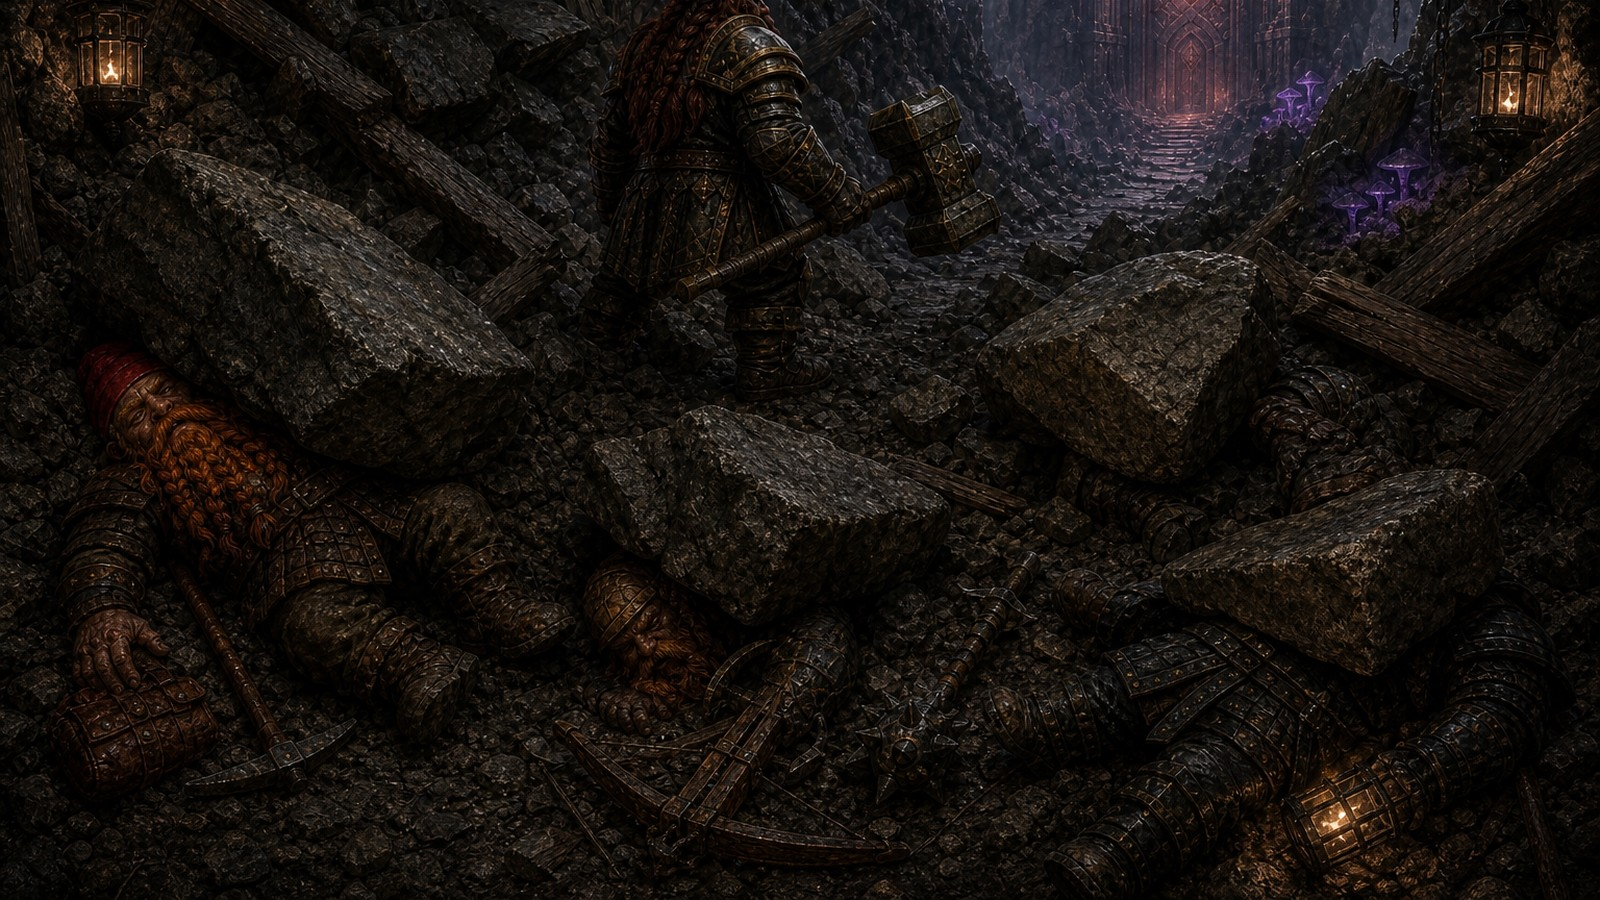
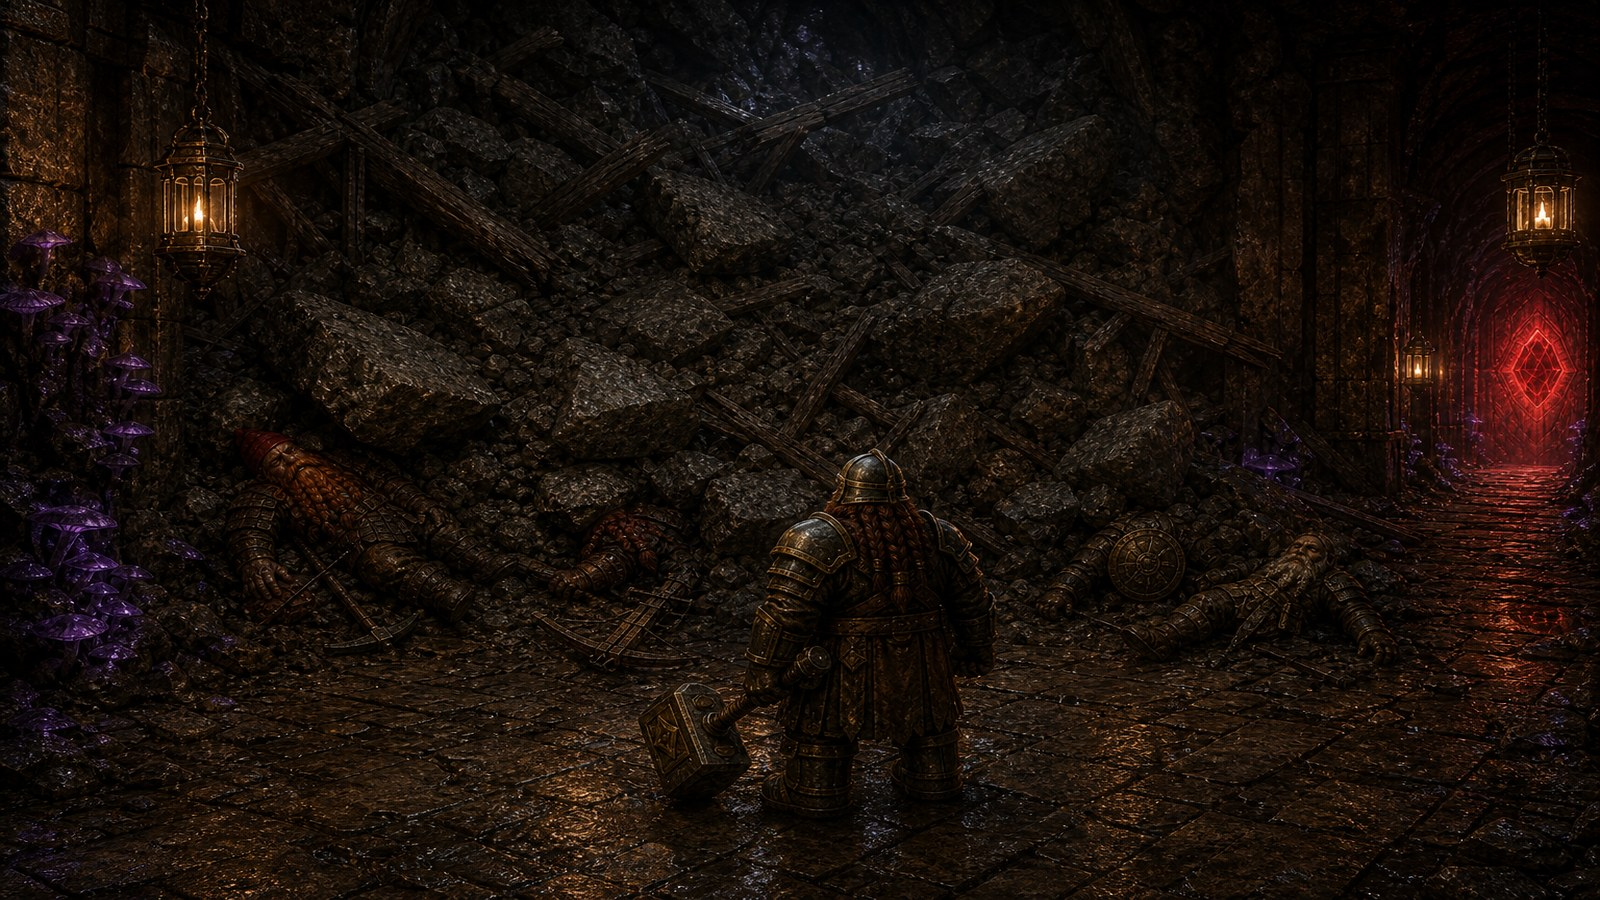
Restore the fallen kin and raise the Chapter I cave-in.
Save-load had turned crush spots into a boolean, so the dead dwarves
spawned off the map. They stand under a ceiling-high west collapse now,
timbers and columns sit on the walls, and the title shows Macar over his
brothers instead of a living party at the ruby door.

diff --git a/index.html b/index.html
@@ -10,8 +10,8 @@
 <link rel="preconnect" href="https://fonts.googleapis.com">
 <link rel="preconnect" href="https://fonts.gstatic.com" crossorigin>
 <link href="https://fonts.googleapis.com/css2?family=Cinzel:wght@600;700;800&display=swap" rel="stylesheet">
-<link rel="preload" as="image" href="assets/ui/title_splash.jpg?v=47">
-<link rel="preload" as="image" href="assets/ui/intro_cavein.jpg?v=47">
+<link rel="preload" as="image" href="assets/ui/title_splash.jpg?v=56">
+<link rel="preload" as="image" href="assets/ui/intro_cavein.jpg?v=56">
 <link rel="preload" as="audio" href="assets/music/SongOfTheForge.mp3?v=47" type="audio/mpeg">
 <style>
   *{margin:0;padding:0;box-sizing:border-box;-webkit-tap-highlight-color:transparent}
@@ -321,7 +321,7 @@ const FONT_TITLE='Cinzel,Palatino,"Palatino Linotype",Georgia,serif';
 
 /* ---------------------------- painted sprites (Baldur's Gate isometric) ---------------------------- */
 const SPR={};
-const ASSET_VER='55';
+const ASSET_VER='56';
 let SPLASH_STATE='loading';
 function assetUrl(src){
   const u=src+(src.indexOf('?')>=0?'&':'?')+'v='+ASSET_VER;
@@ -1288,8 +1288,8 @@ function propAnimImg(p){
 }
 function propSpriteH(p,z){
   const k=p.k;
-  if(k==='cavein') return 118*z;
-  if(k==='rubble') return 52*z*(p.s||1);
+  if(k==='cavein') return 132*z*(p.s||1);
+  if(k==='rubble') return (p.tall||p.backwall?120:52)*z*(p.s||1);
   if(k==='boulder') return (p.pin?48:56)*z*(p.s||1);
   if(k==='rubywall') return 108*z*(p.s||1);
   if(k==='rubydoor') return rubyDoorH();
@@ -2118,18 +2118,30 @@ function startRubbleSpr(seed, n){
 }
 function startBackWallRubble(){
   const out=[];
-  for(let i=0;i<16;i++){
-    const y=16.4+i*0.68+(h01(i,2,81)-0.5)*0.22;
-    const x=14.12+(h01(i,3,81)-0.5)*0.20;
-    const s=0.55+h01(i,5,81)*0.85;
-    const spr=startRubbleSpr(81,i);
-    out.push({x,y,k:/boulder/.test(spr)&&s>0.95?'boulder':'rubble',spr,s,seed:900+i,backwall:1});
+  // Ceiling stack against the sealed west wall — hides the black void.
+  for(let i=0;i<18;i++){
+    const y=15.55+i*0.76+(h01(i,2,81)-0.5)*0.16;
+    const x=14.06+(h01(i,3,81)-0.5)*0.10;
+    const s=0.92+h01(i,5,81)*0.38;
+    const spr=(i%3===0)?'cavein':startRubbleSpr(81,i);
+    out.push({x,y,k:spr==='cavein'?'cavein':'rubble',spr,s,seed:900+i,backwall:1,tall:1});
   }
-  for(let i=0;i<10;i++){
-    const y=16.8+i*0.95+(h01(i,6,81)-0.5)*0.28;
-    const x=14.55+(h01(i,8,81)-0.5)*0.24;
-    out.push({x,y,k:'rubble',spr:startRubbleSpr(83,i+2),s:0.28+h01(i,9,81)*0.42,seed:940+i,backwall:1});
+  for(let i=0;i<12;i++){
+    const y=16.15+i*1.02+(h01(i,6,81)-0.5)*0.20;
+    const x=14.48+(h01(i,8,81)-0.5)*0.14;
+    out.push({x,y,k:'rubble',spr:startRubbleSpr(83,i+2),s:0.78+h01(i,9,81)*0.42,seed:940+i,backwall:1,tall:1});
   }
+  // Tongue of spill into the paved entry toward the hall mouth.
+  const spills=[
+    [15.28,17.35,0.70],[15.48,18.55,0.62],[15.22,19.85,0.58],
+    [15.72,21.15,0.66],[16.35,21.85,0.48],[16.95,22.15,0.36],
+    [15.58,23.55,0.54],[15.38,24.85,0.62],[15.82,26.25,0.58],
+    [16.55,20.55,0.40],[17.25,21.55,0.32]
+  ];
+  spills.forEach((s,i)=>{
+    if(nearCrush(s[0],s[1],0.58)) return;
+    out.push({x:s[0],y:s[1],k:'rubble',spr:startRubbleSpr(91,i),s:s[2],seed:980+i,scatter:1,spill:1});
+  });
   return out;
 }
 function scatterStartRubble(L){
@@ -2138,7 +2150,7 @@ function scatterStartRubble(L){
   const clusters=[
     [14.55,17.15,6,0.88,1.05],[14.70,19.35,7,0.95,1.12],[14.50,21.55,5,0.78,0.92],
     [14.75,23.85,7,0.92,1.08],[14.55,26.15,5,0.80,0.90],
-    [16.05,18.40,3,0.55,0.52],[16.20,22.20,3,0.50,0.48],[16.00,25.20,3,0.52,0.46]
+    [15.85,18.55,2,0.42,0.46],[15.70,25.40,2,0.40,0.44]
   ];
   let n=0;
   clusters.forEach(c=>{
@@ -2148,7 +2160,7 @@ function scatterStartRubble(L){
       const rad=Math.pow(h01(n,5,seed),0.65)*c[3];
       const jx=c[0]+Math.cos(ang)*rad;
       const jy=c[1]+Math.sin(ang)*rad*0.78;
-      if(Math.hypot(jx-19.2, jy-21.5)<1.55) continue;
+      if(Math.hypot(jx-18.4, jy-21.8)<1.45) continue;
       if(nearCrush(jx,jy,0.62)) continue;
       const ti=jx|0, tj=jy|0;
       if(!L.grid[tj]||!isWalkTile(L.grid[tj][ti])) continue;
@@ -2169,7 +2181,7 @@ function makeChapter(n){
     L.w=60; L.h=48; const g=newGrid(L.w,L.h,1); L.grid=g;
     rect(g,14,14,18,16,0); rect(g,24,7,28,28,0);
     rect(g,48,16,5,12,3); rect(g,34,17,9,9,3);
-    L.spawn={x:20.5,y:22.0}; L.flags.broke=1;
+    L.spawn={x:18.4,y:21.8}; L.flags.broke=1;
     L.crush=CRUSH_SPOTS;
     L.secrets=[];
     addSecretDoor(L,{x:36.5,y:35.05,i:35,j:35,w:3,h:1,kind:'treasure',face:'n',
@@ -2188,9 +2200,10 @@ function makeChapter(n){
               {x:27,y:12,c:'#a06cff',r:4.2,f:0.9},{x:42,y:13,c:'#a06cff',r:4.4,f:0.9},
               {x:26,y:30,c:'#a06cff',r:4.0,f:0.85},{x:45,y:29,c:'#a06cff',r:4.6,f:0.95}];
     G.props=[{x:15.4,y:16.35,k:'lantern'},{x:18.2,y:27.15,k:'lantern'},{x:29,y:14,k:'lantern'},{x:29,y:28,k:'lantern'},
-      {x:43,y:14,k:'lantern'},{x:43,y:28,k:'lantern'},
-      {x:16.2,y:16.65,k:'timber'},{x:15.8,y:27.05,k:'timber'},
-      {x:26.5,y:12.5,k:'pillar'},{x:26.5,y:29.5,k:'pillar'},{x:44.5,y:12.5,k:'pillar'},{x:44.5,y:29.5,k:'pillar'},
+      {x:43,y:14,k:'lantern'},{x:43,y:28,k:'lantern'},{x:35.5,y:12.85,k:'lantern'},{x:35.5,y:29.15,k:'lantern'},
+      {x:14.62,y:17.05,k:'timber'},{x:14.55,y:26.85,k:'timber'},
+      {x:26.5,y:12.5,k:'pillar'},{x:35.5,y:12.5,k:'pillar'},{x:44.5,y:12.5,k:'pillar'},
+      {x:26.5,y:29.5,k:'pillar'},{x:35.5,y:29.5,k:'pillar'},{x:44.5,y:29.5,k:'pillar'},
       {x:35,y:12.8,k:'chain'},{x:38,y:30.6,k:'chain'},
       {x:36.5,y:7.28,k:'rubydoor'},{x:43.2,y:7.28,k:'dwarfface'},{x:36.5,y:21.5,k:'lift'},
       {x:27.4,y:18.2,k:'trap',trap:'trap_spikes'},{x:27.8,y:24.6,k:'trap',trap:'trap_pit'},
@@ -2578,8 +2591,7 @@ function dressDungeon(L){
   if(!L||!L.grid) return;
   G.props=G.props||[];
   const tables={
-    1:[['rubble',4],['timber',5],['barrel',2],['crate',2],['orepile',4],
-       ['pickpile',3],['sack',2],['lantern',2],['bones',2],['banner',1]],
+    1:[['rubble',5],['orepile',2],['bones',2],['sack',1],['banner',1]],
     2:[['web',4],['eggs',3],['stalagmite',2],['bones',3],
        ['crystal',2],['sack',2],['crate',1],['timber',2],['orepile',2]],
     3:[['bones',4],['urn',3],['banner',2],['crate',2],['cart',1],['idol',2],
@@ -2610,7 +2622,7 @@ function dressDungeon(L){
     if(!wall && h3(x,y,seed)<0.78) continue;
     floors.push({x:x+0.5,y:y+0.5,wall});
   }
-  const want=L.n===1?10:L.n===2?16:L.n===3?22:L.n===5?12:14;
+  const want=L.n===1?4:L.n===2?16:L.n===3?22:L.n===5?12:14;
   let placed=0, tries=0;
   while(placed<want && tries<floors.length*4){
     tries++;
@@ -2665,7 +2677,7 @@ function placePlantClusters(L){
     if(wall) floors.push({x:x+0.5,y:y+0.5});
   }
   if(!floors.length) return;
-  const nCl=L.n===2?5:L.n===3?5:L.n===1?3:3;
+  const nCl=L.n===2?5:L.n===3?5:L.n===1?2:3;
   const keep=[];
   G.props.forEach(p=>keep.push({x:p.x,y:p.y,r:1.05}));
   if(L.spawn) keep.push({x:L.spawn.x,y:L.spawn.y,r:2.2});
@@ -3054,7 +3066,7 @@ function startChapter(n){
     const hp=sheet.maxhp*ADD_SCALE;
     const atkCd=hero?1.05:r.role==='bolt'?1.7:r.role==='faith'?1.25:1.15;
     const raised=!!(G.ghostAllies&&G.ghostAllies[r.key]);
-    const crush=n===1 && !hero && CRUSH_SPOTS[r.key] && !raised;
+    const crush=(n===1 && !hero && !raised) ? CRUSH_SPOTS[r.key] : null;
     if(!hero && n!==1 && !raised) return;
     const x=crush?crush.x:sp.x+(hero?0:Math.cos(i*1.3)*1.5);
     const y=crush?crush.y:sp.y+(hero?0:Math.sin(i*1.3)*1.5);
@@ -3098,6 +3110,15 @@ function startChapter(n){
   G.carryEffects=[];
   G.cam.x=sp.x; G.cam.y=sp.y; G.scene='intro'; G.introT=0;
   rebuildVision();
+  if(n===1 && G.lvl && G.lvl.seen){
+    Object.keys(CRUSH_SPOTS).forEach(k=>{
+      const s=CRUSH_SPOTS[k];
+      const i=s.x|0, j=s.y|0;
+      for(let dj=-1;dj<=1;dj++) for(let di=-1;di<=1;di++){
+        if(G.lvl.seen[j+dj] && G.lvl.seen[j+dj][i+di]!==undefined) G.lvl.seen[j+dj][i+di]=1;
+      }
+    });
+  }
   if(keep && loadSnap){
     applyPlaySave(loadSnap.play);
     G.scene=loadSnap.scene==='camp'?'camp':'play';
@@ -8082,7 +8103,7 @@ function placeCraftCaches(L){
   G.props=G.props||[];
   const seed=L.dressSeed||1;
   const kits={
-    1:[['orepile',3],['timber',2],['pickpile',1],['bones',1]],
+    1:[['orepile',1],['pickpile',1],['bones',1]],
     2:[['web',3],['eggs',2],['orepile',1],['timber',1],['bones',1]],
     3:[['bones',2],['hidepile',2],['timber',1],['orepile',1],['crystal',1]],
     4:[['slime',2],['bones',2],['hidepile',1]],
@@ -8093,6 +8114,13 @@ function placeCraftCaches(L){
   for(let y=2;y<L.h-2;y++) for(let x=2;x<L.w-2;x++){
     const t=L.grid[y][x];
     if(t!==0 && t!==3) continue;
+    if(L.n===1){
+      let wall=0;
+      for(let j=-1;j<=1;j++) for(let i=-1;i<=1;i++){
+        if(L.grid[y+j]&&L.grid[y+j][x+i]===1) wall=1;
+      }
+      if(!wall) continue;
+    }
     floors.push({x:x+0.5,y:y+0.5});
   }
   if(!floors.length) return;
@@ -9511,13 +9539,13 @@ function drawTitleCavern(g){
     g.beginPath(); g.moveTo(x,y-20*z); g.lineTo(x+40*z,y); g.lineTo(x,y+20*z); g.lineTo(x-40*z,y); g.closePath(); g.stroke();
   }
   g.restore();
-  g.save(); g.translate(cx, cy-28*z);
+  g.save(); g.translate(cx+140*z, cy-52*z);
   if(SPR.rubydoor){
-    drawBillboard(g, SPR.rubydoor, 340*z);
+    drawBillboard(g, SPR.rubydoor, 220*z);
     const pulse=.7+Math.sin(G.t*2.4)*.3;
-    const glow=g.createRadialGradient(0,-120*z,8,0,-120*z,170*z);
+    const glow=g.createRadialGradient(0,-80*z,8,0,-80*z,110*z);
     glow.addColorStop(0,'rgba(255,40,50,'+(0.38*pulse)+')'); glow.addColorStop(1,'rgba(255,40,50,0)');
-    g.fillStyle=glow; g.beginPath(); g.arc(0,-120*z,170*z,0,TAU); g.fill();
+    g.fillStyle=glow; g.beginPath(); g.arc(0,-80*z,110*z,0,TAU); g.fill();
   }
   g.restore();
   function mush(mx,my,sc){
@@ -9527,15 +9555,26 @@ function drawTitleCavern(g){
   }
   mush(cx-250*z, cy+90*z, 1.7); mush(cx-190*z, cy+114*z, 1.1);
   mush(cx+230*z, cy+84*z, 1.8); mush(cx+170*z, cy+118*z, 1.2);
-  const keys=['pordoom','fendur','macar','orbo','talpor'];
-  for(let i=0;i<5;i++){
-    const dx=(i-2)*42*z, dy=cy+148*z + Math.abs(i-2)*10*z;
-    g.save(); g.translate(cx+dx, dy);
-    g.fillStyle='rgba(8,6,5,0.55)';
-    g.beginPath(); g.ellipse(0, 4*z, 14*z, 7*z, 0,0,TAU); g.fill();
-    if(SPR[keys[i]]) drawBillboard(g, SPR[keys[i]], 64*z);
+  g.save(); g.translate(cx-70*z, cy+8*z);
+  if(SPR.cavein) drawBillboard(g, SPR.cavein, 210*z);
+  else if(SPR.rubble) drawBillboard(g, SPR.rubble, 180*z);
+  g.restore();
+  g.save(); g.translate(cx-20*z, cy+48*z);
+  if(SPR.rubble2||SPR.rubble) drawBillboard(g, SPR.rubble2||SPR.rubble, 88*z);
+  g.restore();
+  const fallen=[['pordoom_dead',-118,52],['fendur_dead',-52,66],['orbo_dead',58,60],['talpor_dead',122,48]];
+  fallen.forEach(([k,dx,dy])=>{
+    g.save(); g.translate(cx+dx*z, cy+dy*z);
+    g.fillStyle='rgba(8,6,5,0.5)';
+    g.beginPath(); g.ellipse(0, 6*z, 16*z, 7*z, 0,0,TAU); g.fill();
+    if(SPR[k]) drawBillboard(g, SPR[k], 46*z);
     g.restore();
-  }
+  });
+  g.save(); g.translate(cx+6*z, cy+128*z);
+  g.fillStyle='rgba(8,6,5,0.55)';
+  g.beginPath(); g.ellipse(0, 4*z, 14*z, 7*z, 0,0,TAU); g.fill();
+  if(SPR.macar_back||SPR.macar) drawBillboard(g, SPR.macar_back||SPR.macar, 72*z);
+  g.restore();
 }
 function drawSplashCover(g, img){
   if(!img||!img.width) return false;

diff --git a/src/dungeon/ChapterOneOpening.test.js b/src/dungeon/ChapterOneOpening.test.js
@@ -1,0 +1,49 @@
+'use strict';
+/**
+ * Chapter I opening: fallen kin under a ceiling collapse, sparse logical dressing.
+ * Run: node src/dungeon/ChapterOneOpening.test.js
+ */
+const fs=require('fs');
+const path=require('path');
+const html=fs.readFileSync(path.join(__dirname,'../../index.html'),'utf8');
+
+let failed=0;
+function assert(cond, msg){
+  if(!cond){ failed++; console.error('FAIL  '+msg); }
+  else console.log('ok    '+msg);
+}
+
+assert(/const crush=\(n===1 && !hero && !raised\) \? CRUSH_SPOTS\[r\.key\] : null/.test(html),
+  'crush keeps the boulder spot object, not a boolean');
+assert(!/const crush=n===1 && !hero && CRUSH_SPOTS\[r\.key\] && !raised/.test(html),
+  'save-load no longer boolean-ands the crush coordinates away');
+
+assert(/tall:1/.test(html) && /spill:1/.test(html) && /backwall:1,tall:1/.test(html),
+  'west collapse is marked tall and spills into the entry');
+assert(/p\.tall\|\|p\.backwall\?120:52/.test(html), 'back-wall rubble uses ceiling height');
+assert(/L\.spawn=\{x:18\.4,y:21\.8\}/.test(html), 'Macar starts beside the fallen kin');
+
+const ch1=html.match(/if\(n===1\)\{[\s\S]*?if\(n===2\)\{/);
+assert(!!ch1, 'chapter I block found');
+assert(/14\.62,y:17\.05,k:'timber'/.test(ch1[0]) && /14\.55,y:26\.85,k:'timber'/.test(ch1[0]),
+  'broken timbers brace the collapse, not the walkway');
+assert(/24\.15,y:15\.25,k:'timber'/.test(ch1[0]) && /24\.35,y:28\.85,k:'timber'/.test(ch1[0]),
+  'hall-mouth timbers stay on the north and south lips');
+assert(/35\.5,y:12\.5,k:'pillar'/.test(ch1[0]) && /35\.5,y:29\.5,k:'pillar'/.test(ch1[0]),
+  'hall colonnade pillars sit on the north and south walls');
+assert(!/16\.2,y:16\.65,k:'timber'/.test(ch1[0]), 'start-room walkway is clear of random posts');
+
+assert(/L\.n===1\?4:/.test(html), 'chapter I random dress is sparse');
+assert(/1:\[\['rubble',5\],\['orepile',2\],\['bones',2\]/.test(html),
+  'chapter I dress table has no random timber, lanterns, or pillars');
+assert(/1:\[\['orepile',1\],\['pickpile',1\],\['bones',1\]\]/.test(html),
+  'chapter I craft caches stay on the walls and are few');
+
+assert(/pordoom_dead/.test(html) && /macar_back\|\|SPR\.macar/.test(html),
+  'title fallback shows Macar standing over the fallen kin');
+assert(fs.existsSync(path.join(__dirname,'../../assets/ui/title_splash.jpg')), 'title splash on disk');
+assert(fs.existsSync(path.join(__dirname,'../../assets/ui/intro_cavein.jpg')), 'intro cave-in on disk');
+assert(/ASSET_VER='56'/.test(html), 'asset version bumped for new splash art');
+
+if(failed){ console.error('\n'+failed+' failed'); process.exit(1); }
+console.log('\nchapter I opening checks passed');
